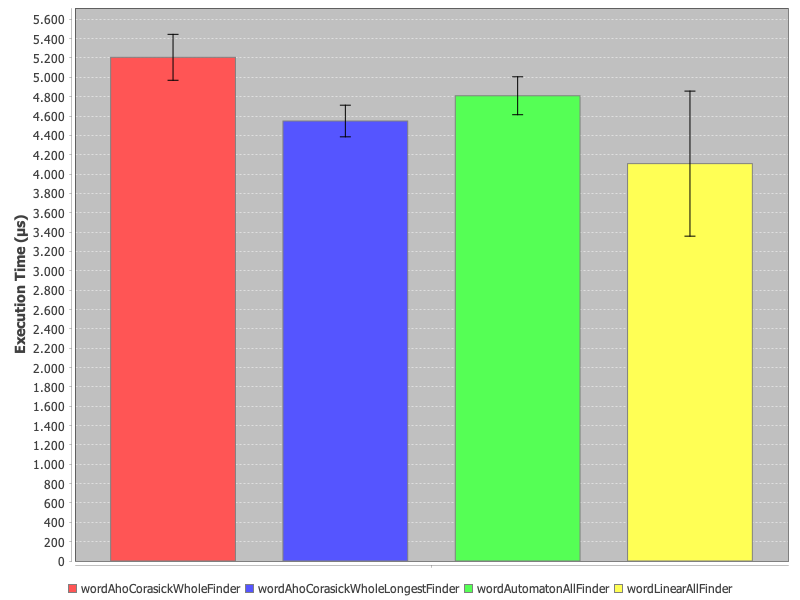
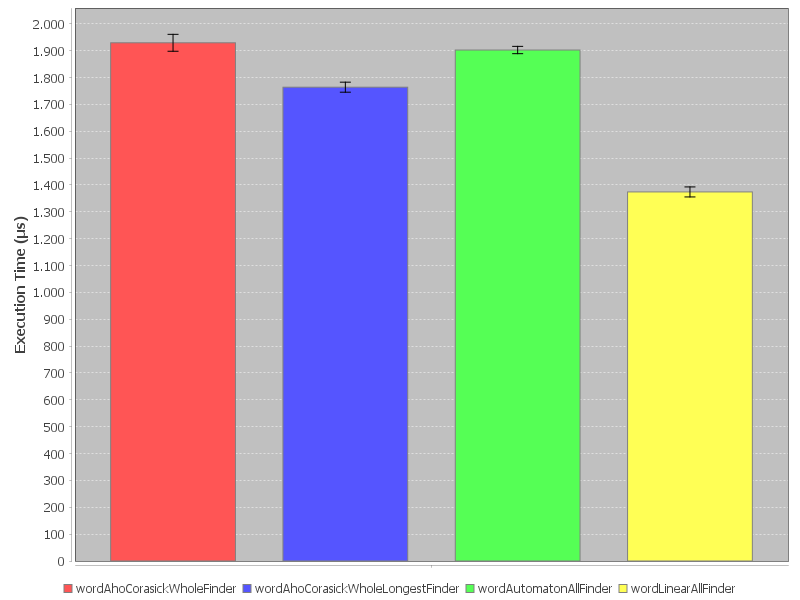
Refactor: optimization of simple-misspelling finder by checking specific Spanish letters

diff --git a/replacer-backend/replacer-finder/src/main/java/es/bvalero/replacer/finder/util/FinderUtils.java b/replacer-backend/replacer-finder/src/main/java/es/bvalero/replacer/finder/util/FinderUtils.java
@@ -185,6 +185,36 @@ public class FinderUtils {
     }
 
     /**
+     * Determine if the character is a Spanish letter (ASCII letters + Spanish accented letters).
+     * This is faster than isLetter() for Spanish text as it uses early exit for ASCII letters.
+     */
+    public static boolean isSpanishLetter(char c) {
+        if ((c >= 'a' && c <= 'z') || (c >= 'A' && c <= 'Z')) {
+            return true;
+        }
+        switch (c) {
+            case 'á':
+            case 'é':
+            case 'í':
+            case 'ó':
+            case 'ú':
+            case 'Á':
+            case 'É':
+            case 'Í':
+            case 'Ó':
+            case 'Ú':
+            case 'ü':
+            case 'Ü':
+            case 'ñ':
+            case 'Ñ':
+            case 'º':
+                return true;
+            default:
+                return false;
+        }
+    }
+
+    /**
      * Determine if the character is a valid word character, i.e. a Unicode letter or digit.
      * We also admit the underscore as part of a complete word.
      * Note that Unicode considers the ordinals as letters, but we discard them.

diff --git a/replacer-backend/replacer-finder/src/main/java/es/bvalero/replacer/finder/replacement/finders/MisspellingSimpleFinder.java b/replacer-backend/replacer-finder/src/main/java/es/bvalero/replacer/finder/replacement/finders/MisspellingSimpleFinder.java
@@ -73,7 +73,7 @@ public class MisspellingSimpleFinder extends MisspellingFinder implements Proper
 
     private int findStartWord(String text, int start) {
         for (int i = start; i < text.length(); i++) {
-            if (FinderUtils.isLetter(text.charAt(i))) {
+            if (FinderUtils.isSpanishLetter(text.charAt(i))) {
                 return i;
             }
         }
@@ -82,7 +82,7 @@ public class MisspellingSimpleFinder extends MisspellingFinder implements Proper
 
     private int findEndWord(String text, int startWord) {
         for (int i = startWord + 1; i < text.length(); i++) {
-            if (!FinderUtils.isLetter(text.charAt(i))) {
+            if (!FinderUtils.isSpanishLetter(text.charAt(i))) {
                 return i;
             }
         }

diff --git a/replacer-backend/replacer-finder-benchmark/src/main/java/es/bvalero/replacer/finder/benchmark/word/WordLinearAllFinder.java b/replacer-backend/replacer-finder-benchmark/src/main/java/es/bvalero/replacer/finder/benchmark/word/WordLinearAllFinder.java
@@ -52,7 +52,7 @@ class WordLinearAllFinder implements BenchmarkFinder {
 
     private int findStartWord(String text, int start) {
         for (int i = start; i < text.length(); i++) {
-            if (FinderUtils.isLetter(text.charAt(i))) {
+            if (FinderUtils.isSpanishLetter(text.charAt(i))) {
                 return i;
             }
         }
@@ -61,7 +61,7 @@ class WordLinearAllFinder implements BenchmarkFinder {
 
     private int findEndWord(String text, int startWord) {
         for (int i = startWord + 1; i < text.length(); i++) {
-            if (!FinderUtils.isLetter(text.charAt(i))) {
+            if (!FinderUtils.isSpanishLetter(text.charAt(i))) {
                 return i;
             }
         }

diff --git a/replacer-backend/replacer-finder-benchmark/src/main/java/es/bvalero/replacer/finder/benchmark/word/WordAutomatonAllFinder.java b/replacer-backend/replacer-finder-benchmark/src/main/java/es/bvalero/replacer/finder/benchmark/word/WordAutomatonAllFinder.java
@@ -26,7 +26,8 @@ class WordAutomatonAllFinder implements BenchmarkFinder {
     private final Set<String> words = new HashSet<>();
 
     WordAutomatonAllFinder(Collection<String> words) {
-        this.wordAutomaton = new RunAutomaton(new RegExp("<L>+").toAutomaton(new DatatypesAutomatonProvider()));
+        String spanishLetters = "[a-zA-ZáéíóúÁÉÍÓÚüÜñÑº]+";
+        this.wordAutomaton = new RunAutomaton(new RegExp(spanishLetters).toAutomaton());
         this.words.addAll(words);
     }
 

diff --git a/replacer-backend/replacer-finder-benchmark/src/main/java/es/bvalero/replacer/finder/benchmark/word/SimpleMisspellingFinderJmhBenchmark.java b/replacer-backend/replacer-finder-benchmark/src/main/java/es/bvalero/replacer/finder/benchmark/word/SimpleMisspellingFinderJmhBenchmark.java
@@ -9,7 +9,6 @@ import es.bvalero.replacer.finder.listing.find.ListingFinder;
 import es.bvalero.replacer.finder.listing.find.ListingOfflineFinder;
 import es.bvalero.replacer.finder.listing.load.SimpleMisspellingLoader;
 import es.bvalero.replacer.finder.listing.parse.SimpleMisspellingParser;
-import es.bvalero.replacer.finder.replacement.ReplacementFinder;
 import java.util.Set;
 import java.util.stream.Collectors;
 import org.openjdk.jmh.annotations.Benchmark;
